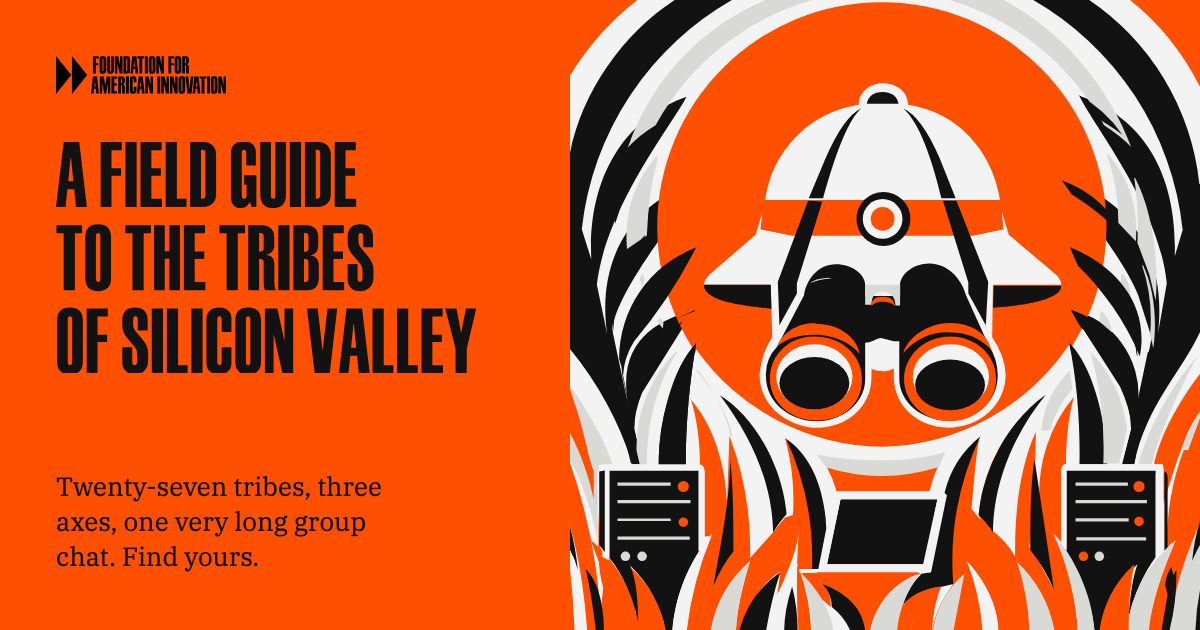
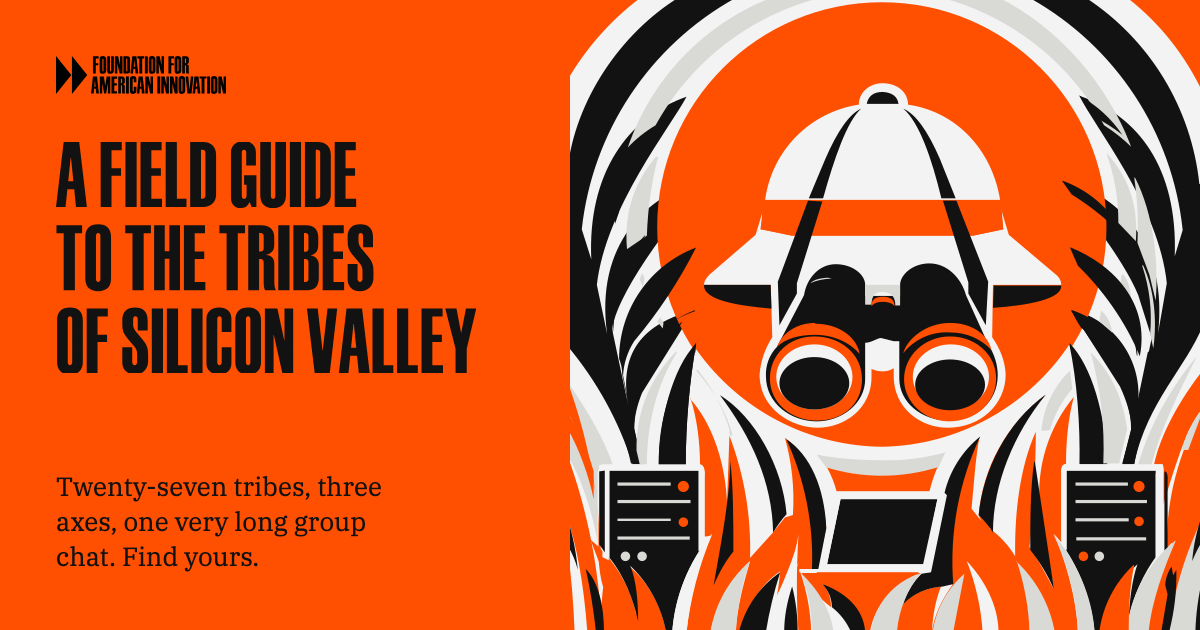
Remove the hatband roundel from the cover art and share image
The concentric black/white/orange badge read as an imperial German
Reichskokarde. The band is now plain. og:image gets ?v=2 so link
previews fetch the new image.

Changed region(s): [[0.7092, 0.3016, 0.7708, 0.3921]]

diff --git a/index.html b/index.html
@@ -9,7 +9,7 @@
 <meta property="og:description" content="Twenty-seven tribes, three axes, one very long group chat. Take the quiz and find yours.">
 <meta property="og:type" content="website">
 <meta property="og:url" content="https://tribes.thefai.org/">
-<meta property="og:image" content="https://tribes.thefai.org/og.png">
+<meta property="og:image" content="https://tribes.thefai.org/og.png?v=2">
 <meta property="og:image:width" content="1200">
 <meta property="og:image:height" content="630">
 <meta property="og:image:alt" content="A field guide to the tribes of Silicon Valley: a pith helmet and binoculars peering over tall grass at server racks and a laptop.">
@@ -414,7 +414,7 @@ footer.foot p{ margin:0 0 8px; max-width:80ch; }
[1 lines of base64/hex data omitted]
     </div>
     <h1><span class="vh" id="title"></span><!-- display:start --><svg class="display" viewBox="0 0 454.2 250.4" aria-hidden="true" focusable="false"><path fill="currentColor" d="M0 70.4L10.3 70.4L12.3 51.2L19.7 51.2L21.6 70.4L33.4 70.4L25.1 0L8.3 0M13.2 42.4L15.8 16.9L16.2 16.9L18.8 42.4M48.3 70.4L60 70.4L60 36.4L70.3 36.4L70.3 28.4L60 28.4L60 8.8L71.1 8.8L71.1 0L48.3 0M75.1 70.4L87.2 70.4L87.2 0L75.1 0M91.4 70.4L114.6 70.4L114.6 61.4L103.1 61.4L103.1 36.4L113.4 36.4L113.4 28.4L103.1 28.4L103.1 8.8L114.2 8.8L114.2 0L91.4 0M118.6 70.4L141.1 70.4L141.1 61.4L130.7 61.4L130.7 0L118.6 0M145.1 70.4L159.1 70.4C167.7 70.4 173.1 65.2 173.1 56.9L173.1 13.5C173.1 5.2 167.7 0 159.1 0L145.1 0M156.8 61.4L156.8 8.5L158.4 8.5C160.5 8.5 161.6 9.6 161.6 11.7L161.6 58.2C161.6 60.2 160.5 61.4 158.4 61.4M206.1 58C206.1 60.1 205.1 61.4 203.5 61.4C201.9 61.4 200.9 60.1 200.9 58L200.9 11.6C200.9 9.7 201.8 8.5 203.3 8.5C204.8 8.5 205.7 9.7 205.7 11.6L205.7 25.4L216.2 25.4L216.2 11.5C216.2 3.9 211.2 -1 203 -1C194.7 -1 189.2 4.1 189.2 11.5L189.2 59.9C189.2 67.2 193.2 71.4 199.8 71.4C204.3 71.4 207.4 69.4 209.3 65.1L209.5 65.1L211.6 70.4L216.7 70.4L216.7 36L203.4 36L203.4 46.2L206.1 46.2M234.8 71.4C243.8 71.4 248.7 66.4 248.7 57.2L248.7 0L237.2 0L237.2 58.6C237.2 60.3 236.2 61.4 234.8 61.4C233.4 61.4 232.4 60.3 232.4 58.6L232.4 0L220.9 0L220.9 57.2C220.9 66.4 225.8 71.4 234.8 71.4M252.9 70.4L265 70.4L265 0L252.9 0M269.2 70.4L283.2 70.4C291.8 70.4 297.2 65.2 297.2 56.9L297.2 13.5C297.2 5.2 291.8 0 283.2 0L269.2 0M280.9 61.4L280.9 8.5L282.5 8.5C284.6 8.5 285.7 9.6 285.7 11.7L285.7 58.2C285.7 60.2 284.6 61.4 282.5 61.4M301.4 70.4L324.6 70.4L324.6 61.4L313.1 61.4L313.1 36.4L323.4 36.4L323.4 28.4L313.1 28.4L313.1 8.8L324.2 8.8L324.2 0L301.4 0M8.3 160.4L20.4 160.4L20.4 98.8L28.2 98.8L28.2 90L0.5 90L0.5 98.8L8.3 98.8M31.7 102.7L31.7 147.7C31.7 156.6 36.5 161.4 45.6 161.4C54.7 161.4 59.5 156.6 59.5 147.7L59.5 102.7C59.5 93.8 54.7 89 45.6 89C36.5 89 31.7 93.8 31.7 102.7M43.2 148.3L43.2 101.6C43.2 99.7 44.1 98.5 45.6 98.5C47.1 98.5 48 99.7 48 101.6L48 148.3C48 150.2 47.1 151.4 45.6 151.4C44.1 151.4 43.2 150.2 43.2 148.3M82.7 160.4L94.8 160.4L94.8 98.8L102.6 98.8L102.6 90L74.9 90L74.9 98.8L82.7 98.8M106.1 160.4L117.6 160.4L117.6 126.2L122.6 126.2L122.6 160.4L134.1 160.4L134.1 90L122.6 90L122.6 118.2L117.6 118.2L117.6 90L106.1 90M138.3 160.4L161.5 160.4L161.5 151.4L150 151.4L150 126.4L160.3 126.4L160.3 118.4L150 118.4L150 98.8L161.1 98.8L161.1 90L138.3 90M184.5 160.4L196.6 160.4L196.6 98.8L204.4 98.8L204.4 90L176.7 90L176.7 98.8L184.5 98.8M207.9 160.4L219.6 160.4L219.6 126.4L221.4 126.4C223.3 126.4 224.6 127.8 224.6 130L224.6 149.9C224.6 155.7 225 158.4 226.2 160.4L237.9 160.4L237.9 160.3C236.6 157.8 236.1 155.4 236.1 149.4L236.1 131.4C236.1 125.9 233.1 122.5 227.3 122.2L227.3 121.9C233.2 120.8 236 117.6 236 111.5L236 102.5C236 94.7 230.7 90 222.1 90L207.9 90M219.6 118.4L219.6 98.5L221.5 98.5C223.3 98.5 224.6 99.8 224.6 101.7L224.6 115.2C224.6 117.1 223.3 118.4 221.5 118.4M240.4 160.4L252.5 160.4L252.5 90L240.4 90M256.7 160.4L271.7 160.4C279.9 160.4 284.2 155.8 284.2 147.1L284.2 132.7C284.2 127.2 280.9 123.4 275.4 122.8L275.4 122.5C281.1 121.3 283.6 117.9 283.6 111.2L283.6 102.5C283.6 94.8 278.7 90 270.6 90L256.7 90M268.2 151.4L268.2 126.6L269.8 126.6C271.9 126.6 273 127.7 273 129.8L273 148.2C273 150.2 271.9 151.4 269.8 151.4M268.2 118.6L268.2 98.5L269.8 98.5C271.9 98.5 273 99.6 273 101.7L273 115.4C273 117.4 271.9 118.6 269.8 118.6M288.4 160.4L311.6 160.4L311.6 151.4L300.1 151.4L300.1 126.4L310.4 126.4L310.4 118.4L300.1 118.4L300.1 98.8L311.2 98.8L311.2 90L288.4 90M331.5 140.6L331.5 147.9C331.5 150 330.4 151.4 328.8 151.4C327.2 151.4 326.1 150 326.1 147.9L326.1 131.9L315.4 131.9L315.4 148.6C315.4 156.2 320.8 161.4 328.9 161.4C337.5 161.4 343.3 155.5 343.3 146.8L343.3 139.3C343.3 132.7 341.8 129.2 336.8 123.1L332.1 117.4C327.8 112.1 327.1 110.5 327.1 106.2L327.1 101.7C327.1 99.7 328.1 98.5 329.6 98.5C331.1 98.5 332.1 99.7 332.1 101.7L332.1 113.9L342.8 113.9L342.8 102.7C342.8 93.8 338 89 329.1 89C320.2 89 315.4 93.8 315.4 102.7L315.4 107.9C315.4 113.3 316.7 117.2 320.2 121.4L327.5 130.1C330.9 134.2 331.5 135.8 331.5 140.6M1.2 192.7L1.2 237.7C1.2 246.6 6 251.4 15.1 251.4C24.2 251.4 29 246.6 29 237.7L29 192.7C29 183.8 24.2 179 15.1 179C6 179 1.2 183.8 1.2 192.7M12.7 238.3L12.7 191.6C12.7 189.7 13.6 188.5 15.1 188.5C16.6 188.5 17.5 189.7 17.5 191.6L17.5 238.3C17.5 240.2 16.6 241.4 15.1 241.4C13.6 241.4 12.7 240.2 12.7 238.3M33.2 250.4L44.9 250.4L44.9 216.4L55.2 216.4L55.2 208.4L44.9 208.4L44.9 188.8L56 188.8L56 180L33.2 180M87.8 230.6L87.8 237.9C87.8 240 86.7 241.4 85.1 241.4C83.5 241.4 82.4 240 82.4 237.9L82.4 221.9L71.7 221.9L71.7 238.6C71.7 246.2 77.1 251.4 85.2 251.4C93.8 251.4 99.6 245.5 99.6 236.8L99.6 229.3C99.6 222.7 98.1 219.2 93.1 213.1L88.4 207.4C84.1 202.1 83.4 200.5 83.4 196.2L83.4 191.7C83.4 189.7 84.4 188.5 85.9 188.5C87.4 188.5 88.4 189.7 88.4 191.7L88.4 203.9L99.1 203.9L99.1 192.7C99.1 183.8 94.3 179 85.4 179C76.5 179 71.7 183.8 71.7 192.7L71.7 197.9C71.7 203.3 73 207.2 76.5 211.4L83.8 220.1C87.2 224.2 87.8 225.8 87.8 230.6M103.6 250.4L115.7 250.4L115.7 180L103.6 180M119.9 250.4L142.4 250.4L142.4 241.4L132 241.4L132 180L119.9 180M146.4 250.4L158.5 250.4L158.5 180L146.4 180M174.4 238.3L174.4 191.6C174.4 189.7 175.3 188.5 176.8 188.5C178.3 188.5 179.2 189.7 179.2 191.6L179.2 205.4L189.7 205.4L189.7 191.1C189.7 183.5 184.7 179 176.5 179C168.1 179 162.7 183.7 162.7 191.1L162.7 239.6C162.7 246.7 168.2 251.4 176.5 251.4C184.7 251.4 189.7 246.9 189.7 239.3L189.7 221.9L179.2 221.9L179.2 238.3C179.2 240.2 178.3 241.4 176.8 241.4C175.3 241.4 174.4 240.2 174.4 238.3M193.9 192.7L193.9 237.7C193.9 246.6 198.7 251.4 207.8 251.4C216.9 251.4 221.7 246.6 221.7 237.7L221.7 192.7C221.7 183.8 216.9 179 207.8 179C198.7 179 193.9 183.8 193.9 192.7M205.4 238.3L205.4 191.6C205.4 189.7 206.3 188.5 207.8 188.5C209.3 188.5 210.2 189.7 210.2 191.6L210.2 238.3C210.2 240.2 209.3 241.4 207.8 241.4C206.3 241.4 205.4 240.2 205.4 238.3M225.9 250.4L235.3 250.4L235.3 208.8L235.6 208.8L244.9 250.4L256.5 250.4L256.5 180L247.1 180L247.1 214.5L246.8 214.5L239.4 180L225.9 180M279.8 250.4L296 250.4L304.1 180L293.6 180L288.5 225.2L288.2 225.2L283 180L271.4 180M305.9 250.4L316.2 250.4L318.2 231.2L325.6 231.2L327.5 250.4L339.3 250.4L331 180L314.2 180M319.1 222.4L321.7 196.9L322.1 196.9L324.7 222.4M342.3 250.4L364.8 250.4L364.8 241.4L354.4 241.4L354.4 180L342.3 180M368.8 250.4L391.3 250.4L391.3 241.4L380.9 241.4L380.9 180L368.8 180M395.3 250.4L418.5 250.4L418.5 241.4L407 241.4L407 216.4L417.3 216.4L417.3 208.4L407 208.4L407 188.8L418.1 188.8L418.1 180L395.3 180M432.1 250.4L444.2 250.4L444.2 223.6L454.5 180L443.4 180L438.3 206L438 206L433.1 180L421 180L432.1 223.6"/></svg><!-- display:end --></h1>
-    <div class="hero-art" aria-hidden="true"><svg focusable="false" xmlns="http://www.w3.org/2000/svg" fill="none" viewBox="0 0 80 80"><g transform="matrix(1.008 0 0 1.008 -0.32 -0.32)"><path fill="#f3f3f3" d="M0 .1h80v79.8H0z"/><path fill="#121212" d="M65.3.1h-7a38 38 0 0 1 19.2 29.2l-1 3.3c.4-11.2-4.7-17.8-12-20.2 1.8 3.8 10 13.8 11 23.6l-1.1 6.3C75.6 31.5 70 25 62.4 23c2 3 7.6 9.8 9.5 14.5l1.7 5.4-1.7 8a11 11 0 0 0-8.5-11.6l6.2 9.7q1.3 2.8 1.5 5.2l-1.2 4.5h1.5C73 51 78 46.5 80 41.4V23.5h-.4A32 32 0 0 0 65.4.1M14 .1h7.1A38 38 0 0 0 1.8 29.2L3 33c-.5-10.8 4.6-17.9 12-20.5-2 3.8-10.2 14-11.3 23.7L5 42.4c-1.6-11.2 5-17.7 12.2-19.3C14.5 26.8 6.7 36 5.6 41.7l2.1 9.9c-1.7-8.4 3.8-11 8.2-12.2L9.4 49.8q-1 2.5-1 4.5l1 4.5H8.2A44 44 0 0 0 0 43.9V21.6C1 13 6.6 4.6 14 0"/><path fill="#ff4f00" d="M0 .1h9.1A35 35 0 0 0 0 10.4zm80 0h-9.4q6 4.7 9.4 11.8z"/><circle cx="39.6" cy="28.9" r="28.3" fill="#ff4f00"/><path fill="#f3f3f3" d="m55.6 29.9-1-3.3.3 2.6-3.8.8H28.3l-4-.8.4-2.6-1 3.3-5.8 5q-.7.7-.7 1.3h8.4l.2 6.6a10 10 0 0 0-1.6 4.7c0 4.3 4 6.7 7.3 6.7 3.4 0 6.8-2.4 6.8-6.4v-1q.7.3 1.4.3.8 0 1.4-.4v1c0 4 3.3 6.5 6.8 6.5 4.2 0 7.3-3 7.3-6.7q-.1-2.4-1.7-4.7l.1-6.6h8.6q0-.8-.8-1.4z"/><path fill="#121212" d="M53.6 39.1c4.4-.3 8.7-1.1 8.6-2.8h-8.5zm-27.9.1c-4.5-.4-8.6-1.1-8.5-3h8.4zm24.5-1.7c-.6-2.2-2.4-4-4.6-4s-3.7 1.5-3.7 2.7v1.4h-4.4v-1.4c0-1.3-1.6-2.6-3.7-2.6-2.2 0-3.7 1.9-4 3.9L26.4 44a5 5 0 0 0-1.4 3.7c0 3.5 3.2 5.7 6.4 5.7s6.1-2.3 6.1-5.3v-4.6c.8 0 1.5-.6 2-.6l1.6.4h.7V48c0 3 2.8 5.3 6.2 5.3s6.2-2.3 6.2-5.7q0-2-1.2-3.9z"/><path fill="#ff4f00" d="M48 53.4c3.5 0 6-2.4 6-5.4s-2.6-5.3-5.8-5.3c-3.3 0-5.8 2.5-5.8 5.4s2.6 5.3 5.7 5.3"/><ellipse cx="48.3" cy="47.8" fill="#f3f3f3" rx="4.8" ry="4.1"/><ellipse cx="48.2" cy="48.8" fill="#121212" rx="4.4" ry="3.2"/><path fill="#ff4f00" d="M31.4 53.3c3.4 0 5.7-2.1 5.7-5.2 0-3.2-2.7-5.4-6-5.4s-5.6 2.4-5.6 5.3c0 3.1 2.7 5.3 5.9 5.3"/><ellipse cx="31.1" cy="47.8" fill="#f3f3f3" rx="4.8" ry="4.1"/><ellipse cx="31.1" cy="48.6" fill="#121212" rx="4.4" ry="3.3"/><path fill="#ff4f00" d="M48.2 41c-3.2 0-5.5 2.2-5.9 3.8a7 7 0 0 1 6-2.6 7 7 0 0 1 5.1 2.2C53 42.5 51 41 48.2 41m-17 0c-2.5 0-4.3 1.5-4.8 3q1.6-1.5 4.8-1.5c2.6 0 4.6 1.2 5.6 2.4-.3-2-2.5-3.8-5.6-3.8"/><path fill="#d9d9d6" d="M32.8 35.3q-1.7.1-2.2.7 1-.5 2.7-.6zm8.5 3.5h.6v-2.6h-4.4v2.5h.8q0-1.7 1.5-1.6t1.5 1.7"/><path fill="#ff4f00" d="M39.8 37.7q-1.6 0-1.5 1.2c.5-.8 2.5-.7 2.9 0q0-1.2-1.5-1.2"/><path fill="#f3f3f3" d="M42.9 13.5c0-1.6-1.4-2.7-3.2-2.7-1.7 0-3 1.2-3 2.7a14 14 0 0 0-11.8 12h29.6c-1-6.2-5.4-11.1-11.6-12"/><path fill="#121212" d="M37.7 13.4q.3-1.5 2-1.5 1.8.1 2 1.5z"/><path fill="#ff4f00" d="m24.6 25.6-.2 3.6 3.8.8h22.9l3.8-.8-.3-3.6z"/><path fill="#121212" d="M37 14q-2.2 1-4.5 6.3l-2.1 5h1.8c1.4-5 3-9.7 4.8-11.3m-6.7 11.6-3.8 10.2.2 5.5 2.2-4V36l3.2-10.3zm12-11.6q2.3 1 4.6 6.3l2 5h-1.8c-1.2-5-2.8-9.6-4.8-11.3M49 25.6l4 10.2-.3 5.5-2.2-4v-1.4l-3.2-10.3z"/><circle cx="39.8" cy="27.9" r="3.4" fill="#121212"/><circle cx="39.7" cy="27.9" r="2.5" fill="#f3f3f3"/><circle cx="39.7" cy="27.9" r="1.5" fill="#ff4f00"/><path fill="#f3f3f3" d="M63.3 43.6a29 29 0 0 1-23.6 13 29 29 0 0 1-23.5-12.3l-.7 6.2a21 21 0 0 1 4.6 13l.4-8.1a36 36 0 0 1 2.6 15q1.6-2.1 2.8-3.3c.3-.5 1-1.5 1.7-2 1-3 .9-6.7 0-9.5a21 21 0 0 1 1.6 10.5q-1.2 5.4-2.7 9.5l2.6-4.3c1 2.7 1.5 5.9 1.7 8.6h10.6c0-2.3.7-5 3-7.2l1.2-.3 2-9.8-.3-.2c.7-2.6 2.5-5.3 4.3-6.9-.4 3-.5 6.9 0 9.4l1.8 2.2q1.7 1.5 3 3.4c-.2-5.6.8-11.8 2.7-15.7l.4 7.8c.2-4.4 2-9.4 4.5-12.3z"/><path fill="#ff4f00" d="M15.5 50.5c.8 2.4 1.2 5.6 1.2 8.4q.7 0 .6 1.6v7.4q.5 0 .9-.2A45 45 0 0 0 15 79.9h3a18 18 0 0 1 5-8.9c-.8 2.8-1.7 6-1.8 9h.4c.8-2.8 2.7-6.1 5.2-7.7q-.2 2.2-.6 4c.8-2.8 2.5-5.5 2.9-8.7q-.4 6.8 0 12.3h1.6q-.1-3.8-1.4-7.6l.4-.2h14.8a12 12 0 0 0-3 7.8h22.8c-.2-4.5-1.7-9.3-3-12.3l.9 1V60q0-1.2.6-1.2c0-2.9.3-6 1-8.5a19 19 0 0 0-4.3 13.8l1.8 10.5q-2-3.8-3.1-5.4c.5-3.6.8-10.9.8-14.5-2 4.4-2.7 10.2-2.6 15.7a12 12 0 0 0-3.2-3.5c.3-4.8 2.7-12.1 7-16.8a21 21 0 0 0-8.4 15.1l.3.7-1.2-1.5c.3-3.1.5-6.4 1-9A35 35 0 0 0 48.5 74q-2.2 3-2.6 6h12q-1.9-5.4-5.5-7.8c.4 2.5 1.4 5.3 1.7 7.7-.5-3.3-2.4-7-4-8.9a26 26 0 0 1 2 9h-3.6l1.4-7.4a13 13 0 0 0-4 7.3q.2-3.4 1.2-5.8a8 8 0 0 0-3.9 5.8c.3-2.4 2-4.8 4-5.7a8 8 0 0 0-5 2.2 11 11 0 0 1 2.3-3.9h-15v.1a14 14 0 0 0 3.7 4.2q0-1.9-1.2-3a8 8 0 0 1 3.8 6.1h2.3c.6-3.4 3.1-6 6.3-7.4h-13l1.2-5.7c-.3-4.9-2.3-9.4-5.2-11.3a29 29 0 0 1 1 9.7l-1 .3-1.6 2-2.8 3.1a40 40 0 0 0-2.6-15.4l-.3 8.5c-.2-5-1.8-10-4.7-13.2"/><path fill="#121212" d="M19.2 50.1c4 5.3 6.6 11 6.7 17.3q1-1.6 1.7-2.3c-.5-6-4-12.3-8.4-15m8.3 5.4A36 36 0 0 1 30.8 72h.8l1-5.1c-.2-5.1-2-9.3-5.1-11.3m24.5-.3a13 13 0 0 0-4.5 7.1l.3.3-2 9.7-1.2.2q-1.7 1.7-2.3 3.8 2-2 5-2.2l1.3-.3A37 37 0 0 1 52 55.3m8.3-5.3c-5 3.5-8 9.7-8.5 15.2q1.2 1.2 1.8 2.2c0-6.2 2.7-12.5 6.6-17.3m-39.7 8.3c0 5-1.6 12.6-2.1 15.7q1.1-2.6 2.5-4.3c0-3.8 0-8.3-.4-11.4m38.3 0c-.5 3.3-.5 7.6-.5 11.2a22 22 0 0 1 3 5l-2.4-16zM16.2 43.6c-3 3-4.7 10-4.7 15.2h3.4c0-5.2.5-10.7 1.3-15.1zm47 0c1 4.7 1.4 10.3 1.3 15.2H68c-.2-6.3-2-12.4-4.7-15.2M80 34.7c-2.8 5.7-5.7 12.1-7.5 16.6 1.1-6.5 4.6-13.5 7.5-20z"/><path fill="#121212" d="M80 41.5c-2.7 4.9-7.4 9.8-8.6 17.3h-1.5l1.1-4.4q0-3-1.6-6l-6-9c4.4 1.4 8.8 5.3 8.4 11.5l1.3-6.2 2.5-1.7z"/><path fill="#ff4f00" d="M80 47c-2.8 3.6-5.3 8-6.1 11.8H75V64c1.3-4 2.8-9.6 4.9-12.1z"/><path fill="#ff4f00" d="M80 52a34 34 0 0 0-4.5 17.4l.7-.8c-1 3-2.7 8-3 11.3h5q.5-5.7 1.8-10.4z"/><path fill="#d9d9d6" d="M80 65.6c-2 4-3.7 9.2-4.2 14.3H80z"/><path fill="#121212" d="M80 73.2q-.8 3.3-.9 6.7h.9z"/><path fill="#ff4f00" d="m76.3 72.2-.3.6-.2-3.2c-2.8 2.7-5 6.9-5.4 10.3h4.3a21 21 0 0 0 2-7.6z"/><path fill="#121212" d="M74.8 59.6h-12v10c2 3.1 3.3 7 3.6 10.3h.7a15 15 0 0 1 4.7-8.5c-.7 2-1 4.7-1.1 7 .5-3 2-6 3.4-7.9V60.1q0-.5.7-.5"/><path fill="#f3f3f3" d="M74.8 58.8H62.7q-.6 0-.5 1.3v8.2l.7 1.4V59.6h11.2v11q.4-.6 1-1v-9.5q.1-1.3-.3-1.3"/><path fill="#121212" d="M75.2 59.7v10l.4-.4v-8.2q.1-1.4-.4-1.4M80 65q-1.1 3.2-1.3 6 .7-1.7 1.3-2.5z"/><circle cx="72" cy="61.6" r=".7" fill="#ff4f00"/><circle cx="72" cy="66" r=".6" fill="#ff4f00"/><circle cx="65" cy="70.4" r=".6" fill="#ff4f00"/><circle cx="67" cy="70.4" r=".6" fill="#d9d9d6"/><path stroke="#d9d9d6" stroke-width=".4" d="M64 61.3h6.6M64 63.5h9m-9 2.3h6.7m-6.6 2.4h8.8"/><path fill="#d9d9d6" d="M0 48.4c2.6 3.7 4.9 7.8 5.7 10.5H4v.8h-.2v9c-.7-4.3-2.3-8.6-3.8-11z"/><path fill="#ff4f00" d="M0 48.5v3.7A32 32 0 0 1 3.9 66v4.3q.1 2.4.6 4-.4 3-.1 5.6h2a44 44 0 0 0-2.7-11.1l.5 1A70 70 0 0 0 0 48.4"/><path fill="#ff4f00" d="M0 57.7v7.9c1.1 3.4 2 7.7 2.5 14.3h1.8A72 72 0 0 0 0 57.7m0 11.6V80h.9Q.7 74.5 0 69.3m0-16.9v1.9c1.5 2.6 2.7 6 3.3 8.9v-3.5Q2 55.2 0 52.4"/><path fill="#121212" d="M0 65.6V69q.9 1.5 1.3 3.1Q1 68.8 0 65.6"/><path fill="#ff4f00" d="M2.9 68.3c1.4 3.7 3 7.6 3.4 11.6H9a17 17 0 0 0-6.1-11.6m4.9 3.4a47 47 0 0 1 1 8.2h3.6c-.5-3.1-2.3-6.4-4.6-8.2"/><path fill="#121212" d="M2.3 72q.8 3.5 1.3 8h1c0-3.4-.7-6.4-2.3-8m14.3-12.4H5.3v11c1.8 2.2 3 5.2 3.6 8 0-2.3-.2-5.2-1-7 2.4 2.2 4 5.4 4.5 8.3h.8a22 22 0 0 1 3.5-10.3z"/><path fill="#f3f3f3" d="M16.7 58.8H4.5q-.6 0-.6 1h.5v10.7l.8.4V59.6h11.3v10.2l.7-.6v-8.8q.2-1.7-.7-1.6"/><path fill="#121212" d="M4 59.7v9.2l.7 1V59.6z"/><circle cx="14.6" cy="61.6" r=".7" fill="#ff4f00"/><circle cx="14.6" cy="66.1" r=".6" fill="#ff4f00"/><circle cx="7.3" cy="70.4" r=".6" fill="#d9d9d6"/><circle cx="9.4" cy="70.4" r=".6" fill="#d9d9d6"/><path stroke="#d9d9d6" stroke-width=".4" d="M6.3 61.3H13m-6.7 2.2h9.2"/><path stroke="#d9d9d6" stroke-width=".3" d="M6.3 65.8H13"/><path stroke="#d9d9d6" stroke-width=".4" d="M6.3 68.1h9.1"/><path fill="#121212" d="M16.2 43.5a26 26 0 0 0-4.7 15.3h3.4c0-5.2.5-10.6 1.3-15.1zm-.1-4c-4.7 1.7-9 5.1-8.4 12l-.8-4q0-1-.4-2a15 15 0 0 1 9.7-14 61 61 0 0 1-7.8 11.8A9 9 0 0 0 7 47.6l.8 4C7.2 44.5 12.1 41 16 39.4z"/><path fill="#121212" d="M0 35.3v8.2c3.1 4.1 6.7 9 8 15.2h1.4l-1-4.4q0-2.7 1.1-5.4l5-8.1-4 3.3-2 2.9-.8 4.5A46 46 0 0 0 0 35.3"/><path fill="#f3f3f3" d="M18.2 67.6c-3 3.5-4.7 8-5 12.3H15a42 42 0 0 1 3.1-12.3"/><path fill="#d9d9d6" d="M23 71a15 15 0 0 0-5 9h3.2q.3-4.8 1.8-9"/><path fill="#f3f3f3" d="M29.1 71.3a15 15 0 0 0-4 8.6h2.3q.1-4.6 1.7-8.7"/><path fill="#d9d9d6" d="M29.4 72.5q1.4 3.6 1.4 7.4h2.7c-.3-2.8-2.1-5.5-4.1-7.4m15.2 0a9 9 0 0 0-6.4 7.4h3.3q.4-4.2 3-7.4m5.5.1a12 12 0 0 0-4 7.3h2.6z"/><path fill="#f3f3f3" d="M50.3 71q1.7 4.3 2 9h2c0-3.5-1.9-6.8-4-9"/><path fill="#d9d9d6" d="M56.6 71q1.5 4.6 1.6 9h3.2a16 16 0 0 0-4.9-9m4.7-3.4a32 32 0 0 1 3.1 12.3h2.1c-.3-4.5-2.3-9-5.2-12.3m15.4.8A17 17 0 0 0 70.4 80h2.8c.4-4 1.9-8 3.4-11.5"/><path fill="#121212" d="m76.7 72.1-.4.7-.2-1.1q-.7 1-.8 2.3l.3 1.2-.8 4.7h1q1-3.9.9-7.8"/><path fill="#ff4f00" d="M71.3 71.5a14 14 0 0 0-4.3 8.4h3.7c0-2.5.1-5.6.7-8.4"/><path fill="#121212" d="M32 73.8q1.3 1.3 1.3 3a8 8 0 0 1 2.4 3.1h1.8c-.2-3-2.6-5-5.4-6m-5.3-1.5a13 13 0 0 0-5.2 7.5H25a52 52 0 0 1 1.8-7.5m1.5 1.8q-1 3-1 5.7H29q0-3-.7-5.7m6.1-11-1.7 8.2h12.1l1.8-8.2z"/><path fill="#f3f3f3" d="M47.4 62.5H34.2L31.8 72h-2.6v.4h16.5l2-9.7zM45 71.4H32.7l1.7-8.2h12.2z"/><path fill="#d9d9d6" d="m31.4 57.6 1.3 1.7a26 26 0 0 0 14 0l.9-2q-3.9 1.1-8 1-4.4 0-8.2-.7"/><path fill="#ff4f00" d="M32.7 59.2q.8 1.5 1.2 3h11.7q.4-1.6 1-3a24 24 0 0 1-14 0"/><path fill="#d9d9d6" d="M16.2 47q3.6 4.1 4.6 8.2h-.2v.1l-.2-.3v-.6q-1.3-4.2-4-7.5zm47.1 0a12 12 0 0 0-3.6 7.6l1.1-.1a13 13 0 0 1 2.8-5.2zm2.6-2.3a45 45 0 0 1 1.6 14h2l1-4.3q-.8-6-4.6-9.7m13.3.6c-3.4 4.1-6 9-7.3 13.5h1.7c1.1-4.3 3.3-8.9 5.6-13.4zm.7 6.7a12 12 0 0 0-2.5 5h.8l1.8-4.8zm-66.2-7.4a17 17 0 0 0-5 12.5l.4 1.7h.9c0-4.9 1.2-10 3.8-14.1zM11.2 20q-4.3 5-3.7 11.7L10 30q.2-5.4 1.4-9.8zm56.7-.3q1.5 4 1.5 8.7l2.2 2.3q.5-6.5-3.6-11z"/><path fill="#d9d9d6" d="M71.4 22.7q.6 4.2.4 8.2l1.5 4 .8 3.3c.4-5-.3-11-2.6-15.5z"/><path fill="#d9d9d6" d="M72.4 33.8q1.4 4.2 1 8.6l.4 1.8c.5-3.6.1-7.5-1.3-10.5zm-2.6 1.1-.2 1.8 1.4 1.9q0-2.6-1-3.7zm-2.6 4.6-.2 1.3 1.6 1.4q-.2-1.7-1.3-2.7m-55.6.8-.4.5.7.9.1-.7zm-2.3-5.6-.3.8.4 1 .2-1.2z"/><path fill="#121212" d="M8.8 18.8A13 13 0 0 0 6 28.5l.5-1.5q.2-4.6 2.4-8.2M9.7 30c-3 3.4-4.2 8.1-4 12.5l.1-1q.4-6.4 4-11.5zM8.6 40.6a9 9 0 0 0-.8 3.7l.3-1zM69 37.5q2.3 3.5 2.7 7.5l.1.2q0-4.4-2.7-7.7"/><path fill="#d9d9d6" d="M54.5.1h-7.1a33 33 0 0 1 20.2 16q2 1.3 3.4 2.7c-3-8-9.2-15-16.5-18.7m-29 0A31 31 0 0 0 7.6 18.9q1.5-1.6 3.5-2.8A33 33 0 0 1 32 0z"/><path fill="#121212" d="m64.5 12.4 1.6 2.5q2 1 3.8 2.4-2.1-3.1-5.5-5m-2.1 10.8 1.2 1.7q4 2.5 6.9 5.7a14 14 0 0 0-8-7.4m.9 8.4 1 2.3c3.1 3 6 7 7.8 11.4 1.3-6.7-3.3-11.5-8.7-13.7m.1 7.9q.4 1 1.2 2.2 4 2.8 6.2 7.2c.2-4.5-3.3-8-7.3-9.4"/></g></svg></div>
+    <div class="hero-art" aria-hidden="true"><svg focusable="false" xmlns="http://www.w3.org/2000/svg" fill="none" viewBox="0 0 80 80"><g transform="matrix(1.008 0 0 1.008 -0.32 -0.32)"><path fill="#f3f3f3" d="M0 .1h80v79.8H0z"/><path fill="#121212" d="M65.3.1h-7a38 38 0 0 1 19.2 29.2l-1 3.3c.4-11.2-4.7-17.8-12-20.2 1.8 3.8 10 13.8 11 23.6l-1.1 6.3C75.6 31.5 70 25 62.4 23c2 3 7.6 9.8 9.5 14.5l1.7 5.4-1.7 8a11 11 0 0 0-8.5-11.6l6.2 9.7q1.3 2.8 1.5 5.2l-1.2 4.5h1.5C73 51 78 46.5 80 41.4V23.5h-.4A32 32 0 0 0 65.4.1M14 .1h7.1A38 38 0 0 0 1.8 29.2L3 33c-.5-10.8 4.6-17.9 12-20.5-2 3.8-10.2 14-11.3 23.7L5 42.4c-1.6-11.2 5-17.7 12.2-19.3C14.5 26.8 6.7 36 5.6 41.7l2.1 9.9c-1.7-8.4 3.8-11 8.2-12.2L9.4 49.8q-1 2.5-1 4.5l1 4.5H8.2A44 44 0 0 0 0 43.9V21.6C1 13 6.6 4.6 14 0"/><path fill="#ff4f00" d="M0 .1h9.1A35 35 0 0 0 0 10.4zm80 0h-9.4q6 4.7 9.4 11.8z"/><circle cx="39.6" cy="28.9" r="28.3" fill="#ff4f00"/><path fill="#f3f3f3" d="m55.6 29.9-1-3.3.3 2.6-3.8.8H28.3l-4-.8.4-2.6-1 3.3-5.8 5q-.7.7-.7 1.3h8.4l.2 6.6a10 10 0 0 0-1.6 4.7c0 4.3 4 6.7 7.3 6.7 3.4 0 6.8-2.4 6.8-6.4v-1q.7.3 1.4.3.8 0 1.4-.4v1c0 4 3.3 6.5 6.8 6.5 4.2 0 7.3-3 7.3-6.7q-.1-2.4-1.7-4.7l.1-6.6h8.6q0-.8-.8-1.4z"/><path fill="#121212" d="M53.6 39.1c4.4-.3 8.7-1.1 8.6-2.8h-8.5zm-27.9.1c-4.5-.4-8.6-1.1-8.5-3h8.4zm24.5-1.7c-.6-2.2-2.4-4-4.6-4s-3.7 1.5-3.7 2.7v1.4h-4.4v-1.4c0-1.3-1.6-2.6-3.7-2.6-2.2 0-3.7 1.9-4 3.9L26.4 44a5 5 0 0 0-1.4 3.7c0 3.5 3.2 5.7 6.4 5.7s6.1-2.3 6.1-5.3v-4.6c.8 0 1.5-.6 2-.6l1.6.4h.7V48c0 3 2.8 5.3 6.2 5.3s6.2-2.3 6.2-5.7q0-2-1.2-3.9z"/><path fill="#ff4f00" d="M48 53.4c3.5 0 6-2.4 6-5.4s-2.6-5.3-5.8-5.3c-3.3 0-5.8 2.5-5.8 5.4s2.6 5.3 5.7 5.3"/><ellipse cx="48.3" cy="47.8" fill="#f3f3f3" rx="4.8" ry="4.1"/><ellipse cx="48.2" cy="48.8" fill="#121212" rx="4.4" ry="3.2"/><path fill="#ff4f00" d="M31.4 53.3c3.4 0 5.7-2.1 5.7-5.2 0-3.2-2.7-5.4-6-5.4s-5.6 2.4-5.6 5.3c0 3.1 2.7 5.3 5.9 5.3"/><ellipse cx="31.1" cy="47.8" fill="#f3f3f3" rx="4.8" ry="4.1"/><ellipse cx="31.1" cy="48.6" fill="#121212" rx="4.4" ry="3.3"/><path fill="#ff4f00" d="M48.2 41c-3.2 0-5.5 2.2-5.9 3.8a7 7 0 0 1 6-2.6 7 7 0 0 1 5.1 2.2C53 42.5 51 41 48.2 41m-17 0c-2.5 0-4.3 1.5-4.8 3q1.6-1.5 4.8-1.5c2.6 0 4.6 1.2 5.6 2.4-.3-2-2.5-3.8-5.6-3.8"/><path fill="#d9d9d6" d="M32.8 35.3q-1.7.1-2.2.7 1-.5 2.7-.6zm8.5 3.5h.6v-2.6h-4.4v2.5h.8q0-1.7 1.5-1.6t1.5 1.7"/><path fill="#ff4f00" d="M39.8 37.7q-1.6 0-1.5 1.2c.5-.8 2.5-.7 2.9 0q0-1.2-1.5-1.2"/><path fill="#f3f3f3" d="M42.9 13.5c0-1.6-1.4-2.7-3.2-2.7-1.7 0-3 1.2-3 2.7a14 14 0 0 0-11.8 12h29.6c-1-6.2-5.4-11.1-11.6-12"/><path fill="#121212" d="M37.7 13.4q.3-1.5 2-1.5 1.8.1 2 1.5z"/><path fill="#ff4f00" d="m24.6 25.6-.2 3.6 3.8.8h22.9l3.8-.8-.3-3.6z"/><path fill="#121212" d="M37 14q-2.2 1-4.5 6.3l-2.1 5h1.8c1.4-5 3-9.7 4.8-11.3m-6.7 11.6-3.8 10.2.2 5.5 2.2-4V36l3.2-10.3zm12-11.6q2.3 1 4.6 6.3l2 5h-1.8c-1.2-5-2.8-9.6-4.8-11.3M49 25.6l4 10.2-.3 5.5-2.2-4v-1.4l-3.2-10.3z"/><path fill="#f3f3f3" d="M63.3 43.6a29 29 0 0 1-23.6 13 29 29 0 0 1-23.5-12.3l-.7 6.2a21 21 0 0 1 4.6 13l.4-8.1a36 36 0 0 1 2.6 15q1.6-2.1 2.8-3.3c.3-.5 1-1.5 1.7-2 1-3 .9-6.7 0-9.5a21 21 0 0 1 1.6 10.5q-1.2 5.4-2.7 9.5l2.6-4.3c1 2.7 1.5 5.9 1.7 8.6h10.6c0-2.3.7-5 3-7.2l1.2-.3 2-9.8-.3-.2c.7-2.6 2.5-5.3 4.3-6.9-.4 3-.5 6.9 0 9.4l1.8 2.2q1.7 1.5 3 3.4c-.2-5.6.8-11.8 2.7-15.7l.4 7.8c.2-4.4 2-9.4 4.5-12.3z"/><path fill="#ff4f00" d="M15.5 50.5c.8 2.4 1.2 5.6 1.2 8.4q.7 0 .6 1.6v7.4q.5 0 .9-.2A45 45 0 0 0 15 79.9h3a18 18 0 0 1 5-8.9c-.8 2.8-1.7 6-1.8 9h.4c.8-2.8 2.7-6.1 5.2-7.7q-.2 2.2-.6 4c.8-2.8 2.5-5.5 2.9-8.7q-.4 6.8 0 12.3h1.6q-.1-3.8-1.4-7.6l.4-.2h14.8a12 12 0 0 0-3 7.8h22.8c-.2-4.5-1.7-9.3-3-12.3l.9 1V60q0-1.2.6-1.2c0-2.9.3-6 1-8.5a19 19 0 0 0-4.3 13.8l1.8 10.5q-2-3.8-3.1-5.4c.5-3.6.8-10.9.8-14.5-2 4.4-2.7 10.2-2.6 15.7a12 12 0 0 0-3.2-3.5c.3-4.8 2.7-12.1 7-16.8a21 21 0 0 0-8.4 15.1l.3.7-1.2-1.5c.3-3.1.5-6.4 1-9A35 35 0 0 0 48.5 74q-2.2 3-2.6 6h12q-1.9-5.4-5.5-7.8c.4 2.5 1.4 5.3 1.7 7.7-.5-3.3-2.4-7-4-8.9a26 26 0 0 1 2 9h-3.6l1.4-7.4a13 13 0 0 0-4 7.3q.2-3.4 1.2-5.8a8 8 0 0 0-3.9 5.8c.3-2.4 2-4.8 4-5.7a8 8 0 0 0-5 2.2 11 11 0 0 1 2.3-3.9h-15v.1a14 14 0 0 0 3.7 4.2q0-1.9-1.2-3a8 8 0 0 1 3.8 6.1h2.3c.6-3.4 3.1-6 6.3-7.4h-13l1.2-5.7c-.3-4.9-2.3-9.4-5.2-11.3a29 29 0 0 1 1 9.7l-1 .3-1.6 2-2.8 3.1a40 40 0 0 0-2.6-15.4l-.3 8.5c-.2-5-1.8-10-4.7-13.2"/><path fill="#121212" d="M19.2 50.1c4 5.3 6.6 11 6.7 17.3q1-1.6 1.7-2.3c-.5-6-4-12.3-8.4-15m8.3 5.4A36 36 0 0 1 30.8 72h.8l1-5.1c-.2-5.1-2-9.3-5.1-11.3m24.5-.3a13 13 0 0 0-4.5 7.1l.3.3-2 9.7-1.2.2q-1.7 1.7-2.3 3.8 2-2 5-2.2l1.3-.3A37 37 0 0 1 52 55.3m8.3-5.3c-5 3.5-8 9.7-8.5 15.2q1.2 1.2 1.8 2.2c0-6.2 2.7-12.5 6.6-17.3m-39.7 8.3c0 5-1.6 12.6-2.1 15.7q1.1-2.6 2.5-4.3c0-3.8 0-8.3-.4-11.4m38.3 0c-.5 3.3-.5 7.6-.5 11.2a22 22 0 0 1 3 5l-2.4-16zM16.2 43.6c-3 3-4.7 10-4.7 15.2h3.4c0-5.2.5-10.7 1.3-15.1zm47 0c1 4.7 1.4 10.3 1.3 15.2H68c-.2-6.3-2-12.4-4.7-15.2M80 34.7c-2.8 5.7-5.7 12.1-7.5 16.6 1.1-6.5 4.6-13.5 7.5-20z"/><path fill="#121212" d="M80 41.5c-2.7 4.9-7.4 9.8-8.6 17.3h-1.5l1.1-4.4q0-3-1.6-6l-6-9c4.4 1.4 8.8 5.3 8.4 11.5l1.3-6.2 2.5-1.7z"/><path fill="#ff4f00" d="M80 47c-2.8 3.6-5.3 8-6.1 11.8H75V64c1.3-4 2.8-9.6 4.9-12.1z"/><path fill="#ff4f00" d="M80 52a34 34 0 0 0-4.5 17.4l.7-.8c-1 3-2.7 8-3 11.3h5q.5-5.7 1.8-10.4z"/><path fill="#d9d9d6" d="M80 65.6c-2 4-3.7 9.2-4.2 14.3H80z"/><path fill="#121212" d="M80 73.2q-.8 3.3-.9 6.7h.9z"/><path fill="#ff4f00" d="m76.3 72.2-.3.6-.2-3.2c-2.8 2.7-5 6.9-5.4 10.3h4.3a21 21 0 0 0 2-7.6z"/><path fill="#121212" d="M74.8 59.6h-12v10c2 3.1 3.3 7 3.6 10.3h.7a15 15 0 0 1 4.7-8.5c-.7 2-1 4.7-1.1 7 .5-3 2-6 3.4-7.9V60.1q0-.5.7-.5"/><path fill="#f3f3f3" d="M74.8 58.8H62.7q-.6 0-.5 1.3v8.2l.7 1.4V59.6h11.2v11q.4-.6 1-1v-9.5q.1-1.3-.3-1.3"/><path fill="#121212" d="M75.2 59.7v10l.4-.4v-8.2q.1-1.4-.4-1.4M80 65q-1.1 3.2-1.3 6 .7-1.7 1.3-2.5z"/><circle cx="72" cy="61.6" r=".7" fill="#ff4f00"/><circle cx="72" cy="66" r=".6" fill="#ff4f00"/><circle cx="65" cy="70.4" r=".6" fill="#ff4f00"/><circle cx="67" cy="70.4" r=".6" fill="#d9d9d6"/><path stroke="#d9d9d6" stroke-width=".4" d="M64 61.3h6.6M64 63.5h9m-9 2.3h6.7m-6.6 2.4h8.8"/><path fill="#d9d9d6" d="M0 48.4c2.6 3.7 4.9 7.8 5.7 10.5H4v.8h-.2v9c-.7-4.3-2.3-8.6-3.8-11z"/><path fill="#ff4f00" d="M0 48.5v3.7A32 32 0 0 1 3.9 66v4.3q.1 2.4.6 4-.4 3-.1 5.6h2a44 44 0 0 0-2.7-11.1l.5 1A70 70 0 0 0 0 48.4"/><path fill="#ff4f00" d="M0 57.7v7.9c1.1 3.4 2 7.7 2.5 14.3h1.8A72 72 0 0 0 0 57.7m0 11.6V80h.9Q.7 74.5 0 69.3m0-16.9v1.9c1.5 2.6 2.7 6 3.3 8.9v-3.5Q2 55.2 0 52.4"/><path fill="#121212" d="M0 65.6V69q.9 1.5 1.3 3.1Q1 68.8 0 65.6"/><path fill="#ff4f00" d="M2.9 68.3c1.4 3.7 3 7.6 3.4 11.6H9a17 17 0 0 0-6.1-11.6m4.9 3.4a47 47 0 0 1 1 8.2h3.6c-.5-3.1-2.3-6.4-4.6-8.2"/><path fill="#121212" d="M2.3 72q.8 3.5 1.3 8h1c0-3.4-.7-6.4-2.3-8m14.3-12.4H5.3v11c1.8 2.2 3 5.2 3.6 8 0-2.3-.2-5.2-1-7 2.4 2.2 4 5.4 4.5 8.3h.8a22 22 0 0 1 3.5-10.3z"/><path fill="#f3f3f3" d="M16.7 58.8H4.5q-.6 0-.6 1h.5v10.7l.8.4V59.6h11.3v10.2l.7-.6v-8.8q.2-1.7-.7-1.6"/><path fill="#121212" d="M4 59.7v9.2l.7 1V59.6z"/><circle cx="14.6" cy="61.6" r=".7" fill="#ff4f00"/><circle cx="14.6" cy="66.1" r=".6" fill="#ff4f00"/><circle cx="7.3" cy="70.4" r=".6" fill="#d9d9d6"/><circle cx="9.4" cy="70.4" r=".6" fill="#d9d9d6"/><path stroke="#d9d9d6" stroke-width=".4" d="M6.3 61.3H13m-6.7 2.2h9.2"/><path stroke="#d9d9d6" stroke-width=".3" d="M6.3 65.8H13"/><path stroke="#d9d9d6" stroke-width=".4" d="M6.3 68.1h9.1"/><path fill="#121212" d="M16.2 43.5a26 26 0 0 0-4.7 15.3h3.4c0-5.2.5-10.6 1.3-15.1zm-.1-4c-4.7 1.7-9 5.1-8.4 12l-.8-4q0-1-.4-2a15 15 0 0 1 9.7-14 61 61 0 0 1-7.8 11.8A9 9 0 0 0 7 47.6l.8 4C7.2 44.5 12.1 41 16 39.4z"/><path fill="#121212" d="M0 35.3v8.2c3.1 4.1 6.7 9 8 15.2h1.4l-1-4.4q0-2.7 1.1-5.4l5-8.1-4 3.3-2 2.9-.8 4.5A46 46 0 0 0 0 35.3"/><path fill="#f3f3f3" d="M18.2 67.6c-3 3.5-4.7 8-5 12.3H15a42 42 0 0 1 3.1-12.3"/><path fill="#d9d9d6" d="M23 71a15 15 0 0 0-5 9h3.2q.3-4.8 1.8-9"/><path fill="#f3f3f3" d="M29.1 71.3a15 15 0 0 0-4 8.6h2.3q.1-4.6 1.7-8.7"/><path fill="#d9d9d6" d="M29.4 72.5q1.4 3.6 1.4 7.4h2.7c-.3-2.8-2.1-5.5-4.1-7.4m15.2 0a9 9 0 0 0-6.4 7.4h3.3q.4-4.2 3-7.4m5.5.1a12 12 0 0 0-4 7.3h2.6z"/><path fill="#f3f3f3" d="M50.3 71q1.7 4.3 2 9h2c0-3.5-1.9-6.8-4-9"/><path fill="#d9d9d6" d="M56.6 71q1.5 4.6 1.6 9h3.2a16 16 0 0 0-4.9-9m4.7-3.4a32 32 0 0 1 3.1 12.3h2.1c-.3-4.5-2.3-9-5.2-12.3m15.4.8A17 17 0 0 0 70.4 80h2.8c.4-4 1.9-8 3.4-11.5"/><path fill="#121212" d="m76.7 72.1-.4.7-.2-1.1q-.7 1-.8 2.3l.3 1.2-.8 4.7h1q1-3.9.9-7.8"/><path fill="#ff4f00" d="M71.3 71.5a14 14 0 0 0-4.3 8.4h3.7c0-2.5.1-5.6.7-8.4"/><path fill="#121212" d="M32 73.8q1.3 1.3 1.3 3a8 8 0 0 1 2.4 3.1h1.8c-.2-3-2.6-5-5.4-6m-5.3-1.5a13 13 0 0 0-5.2 7.5H25a52 52 0 0 1 1.8-7.5m1.5 1.8q-1 3-1 5.7H29q0-3-.7-5.7m6.1-11-1.7 8.2h12.1l1.8-8.2z"/><path fill="#f3f3f3" d="M47.4 62.5H34.2L31.8 72h-2.6v.4h16.5l2-9.7zM45 71.4H32.7l1.7-8.2h12.2z"/><path fill="#d9d9d6" d="m31.4 57.6 1.3 1.7a26 26 0 0 0 14 0l.9-2q-3.9 1.1-8 1-4.4 0-8.2-.7"/><path fill="#ff4f00" d="M32.7 59.2q.8 1.5 1.2 3h11.7q.4-1.6 1-3a24 24 0 0 1-14 0"/><path fill="#d9d9d6" d="M16.2 47q3.6 4.1 4.6 8.2h-.2v.1l-.2-.3v-.6q-1.3-4.2-4-7.5zm47.1 0a12 12 0 0 0-3.6 7.6l1.1-.1a13 13 0 0 1 2.8-5.2zm2.6-2.3a45 45 0 0 1 1.6 14h2l1-4.3q-.8-6-4.6-9.7m13.3.6c-3.4 4.1-6 9-7.3 13.5h1.7c1.1-4.3 3.3-8.9 5.6-13.4zm.7 6.7a12 12 0 0 0-2.5 5h.8l1.8-4.8zm-66.2-7.4a17 17 0 0 0-5 12.5l.4 1.7h.9c0-4.9 1.2-10 3.8-14.1zM11.2 20q-4.3 5-3.7 11.7L10 30q.2-5.4 1.4-9.8zm56.7-.3q1.5 4 1.5 8.7l2.2 2.3q.5-6.5-3.6-11z"/><path fill="#d9d9d6" d="M71.4 22.7q.6 4.2.4 8.2l1.5 4 .8 3.3c.4-5-.3-11-2.6-15.5z"/><path fill="#d9d9d6" d="M72.4 33.8q1.4 4.2 1 8.6l.4 1.8c.5-3.6.1-7.5-1.3-10.5zm-2.6 1.1-.2 1.8 1.4 1.9q0-2.6-1-3.7zm-2.6 4.6-.2 1.3 1.6 1.4q-.2-1.7-1.3-2.7m-55.6.8-.4.5.7.9.1-.7zm-2.3-5.6-.3.8.4 1 .2-1.2z"/><path fill="#121212" d="M8.8 18.8A13 13 0 0 0 6 28.5l.5-1.5q.2-4.6 2.4-8.2M9.7 30c-3 3.4-4.2 8.1-4 12.5l.1-1q.4-6.4 4-11.5zM8.6 40.6a9 9 0 0 0-.8 3.7l.3-1zM69 37.5q2.3 3.5 2.7 7.5l.1.2q0-4.4-2.7-7.7"/><path fill="#d9d9d6" d="M54.5.1h-7.1a33 33 0 0 1 20.2 16q2 1.3 3.4 2.7c-3-8-9.2-15-16.5-18.7m-29 0A31 31 0 0 0 7.6 18.9q1.5-1.6 3.5-2.8A33 33 0 0 1 32 0z"/><path fill="#121212" d="m64.5 12.4 1.6 2.5q2 1 3.8 2.4-2.1-3.1-5.5-5m-2.1 10.8 1.2 1.7q4 2.5 6.9 5.7a14 14 0 0 0-8-7.4m.9 8.4 1 2.3c3.1 3 6 7 7.8 11.4 1.3-6.7-3.3-11.5-8.7-13.7m.1 7.9q.4 1 1.2 2.2 4 2.8 6.2 7.2c.2-4.5-3.3-8-7.3-9.4"/></g></svg></div>
   </div>
   <p class="dek" id="dek"></p>
   <div class="rail-ctas"><a class="btn solid" href="#quiz" id="herocta">Find your tribe</a><span class="heronum" id="heronum"></span></div>
